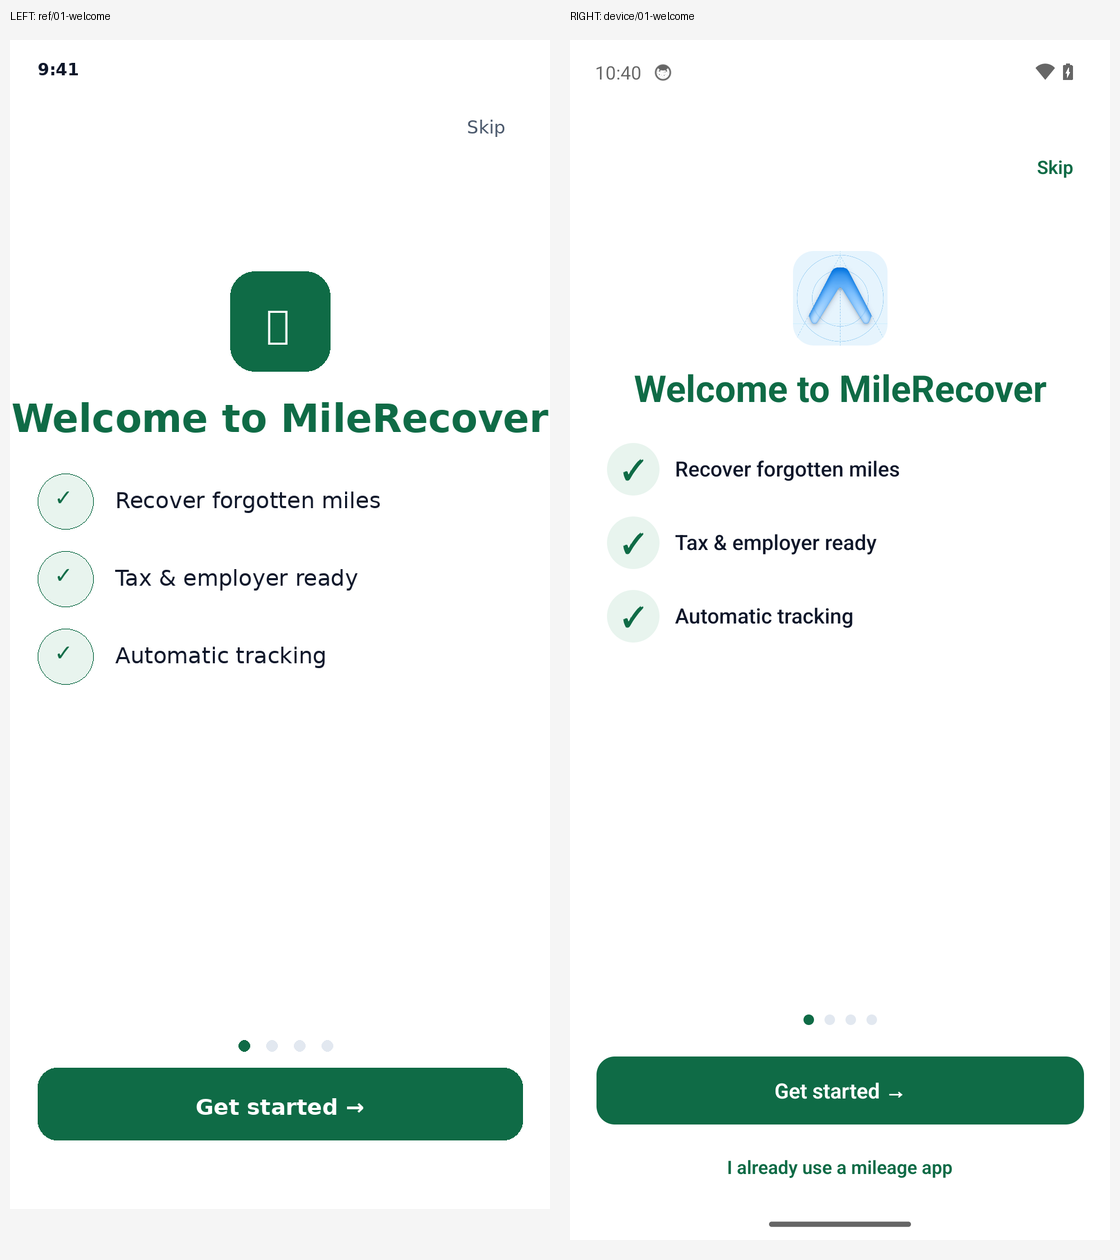
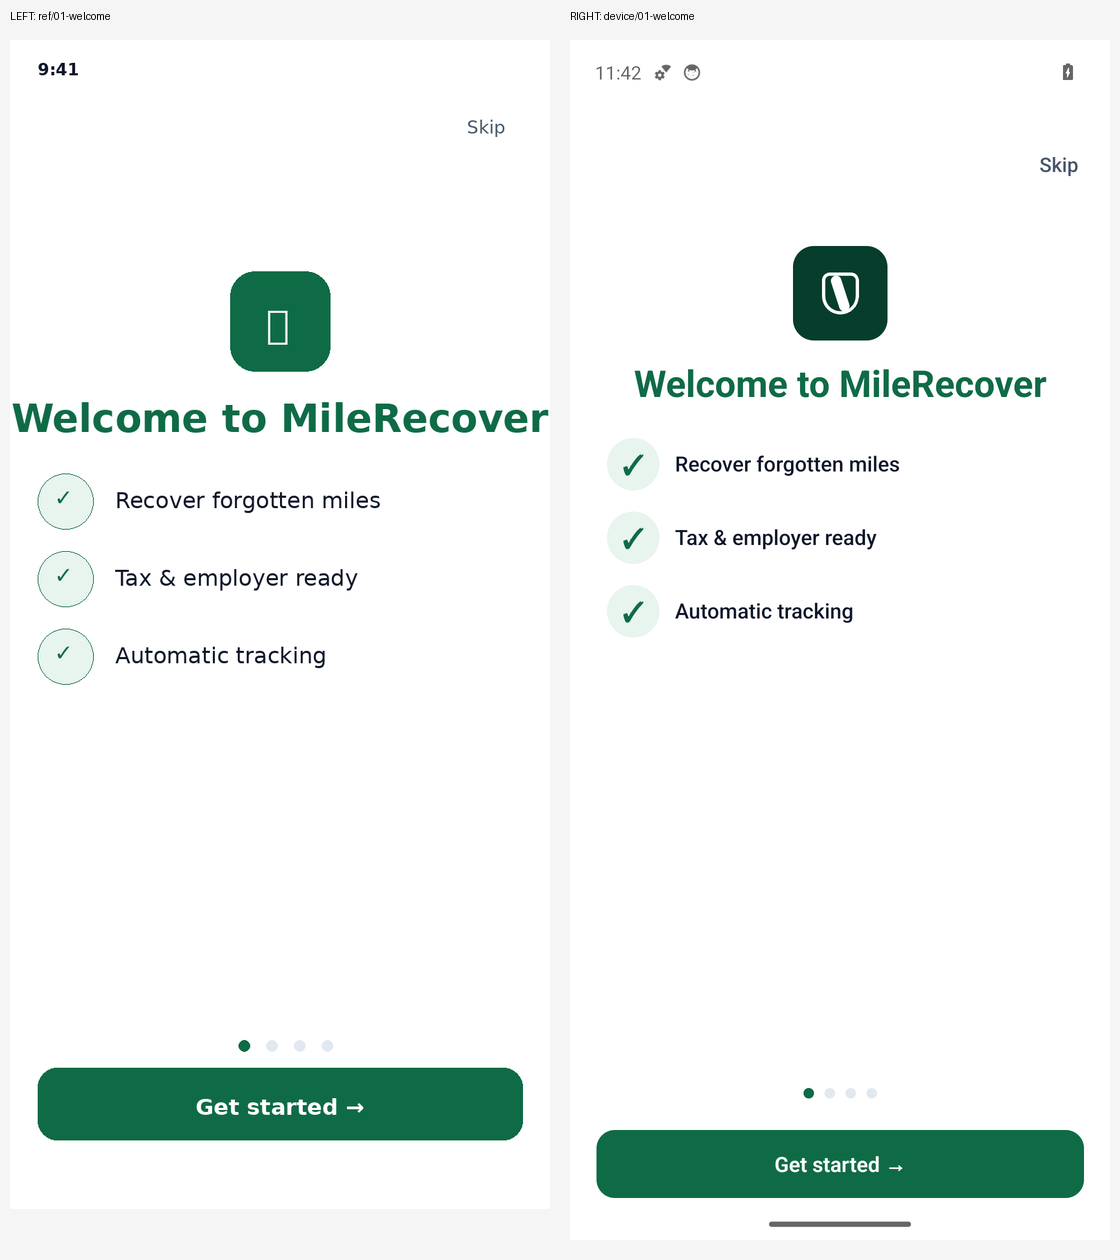
Refresh 0.2.5 device evidence for image-lock.2 APK
Recapture Welcome→Home on Pixel 6 AVD against versionCode 32, regenerate
side-by-sides/diffs, and publish delivery metadata for the installable APK.

diff --git a/docs/assets/ui-evidence/device/0.2.5/MISMATCHES.md b/docs/assets/ui-evidence/device/0.2.5/MISMATCHES.md
@@ -1,37 +1,34 @@
-# Device visual mismatches — 0.2.5 Batch A/B
+# Device visual mismatches — 0.2.5 Batch A/B (image-lock.2)
 
-Evidence from Pixel 6 AVD (`sdk_gphone64_x86_64`, API 34, 1080×2400, TCG).
+Evidence: Pixel 6 AVD (`sdk_gphone64_x86_64`, API 34, 1080×2400, TCG).  
+APK: versionCode **32**, label **0.2.5-image-lock.2**.
 
-## Corrected before rebuild (image-lock.2)
+## Verified on device after rebuild
 
-| Screen | Mismatch | Correction |
-|---|---|---|
-| Welcome | App icon was blue chevron, not green shield mark | `MRWelcomeLogo` draws dark-green rounded mark |
-| Welcome | Extra “I already use a mileage app” link under CTA | Removed from Welcome footer (not in collage) |
-| Welcome | Skip used primary green tertiary weight | Skip uses muted secondary text |
-| Auth–Region | Progress “N of 6” | Progress excludes Welcome → “N of 5” (`8262305` + rebuild) |
-| Home | Greeting fell back to “Welcome back” without name | Time-of-day greeting (`Good morning` / …) |
-| Home | Empty hero used long CTA copy instead of money silhouette | Shows truthful `$0.00` / `this year.` when rate usable |
-| Home | Metric tile put unit inside value (`0.0 mi`) | Numeric value + “Work miles” label |
-| Home | Notification control was ◉ glyph | `notifications-outline` icon |
-| Home | Hero glyph was text check | `shield-checkmark` icon |
-
-## Honest remaining differences (post-correction intent)
-
-| Screen | Remaining |
+| Screen | Verified |
 |---|---|
-| Welcome | Pagination dots imply 4 intro pages; product only has one Welcome step |
-| Auth | No collage tile — layout is protocol-required, not pixel-locked to a crop |
-| Purpose | Selection checkmark / green border only after tap (capture can show unselected) |
-| Region | Info row uses check circle; collage uses “i” info treatment |
-| Protection | Product copy/actions (“Turn on drive protection”) vs collage Protection Center tile (different screen) |
-| Ready | Not a collage tile; success CTA pair differs from marketing panels |
-| Home | Truthful empty state (`$0.00`, `0` drives) vs collage populated sample (`$487.32`, `1,264`) |
-| Home | Status panel attention tone when protection paused (amber) vs collage mint “All systems normal” |
-| Home | Next-up label follows live next-best action, not always “Review 2 drives” |
-| All | Status bar / gesture inset differ from collage chrome |
-| Crops | Working crops are vision-derived geometry locks; original collage binary was not on disk |
+| Welcome | Green brand mark, muted Skip, 3 benefits, dots, Get started → (no extra import link) |
+| Auth | Progress **1 of 5**, Google primary, continue without account, truthful unavailable copy |
+| Purpose | Progress **2 of 5**, four collage goal labels |
+| Region | Progress **3 of 5**, country + $0.70/mi + estimate panel |
+| Protection | Progress **4 of 5**, education + Turn on / Not now |
+| Ready | You’re all set + Go to Home / Add my first drive |
+| Home | Light canvas, greeting, `$0.00` / this year., 3 metric tiles, status, Next up, dual CTAs, 4 tabs |
 
-## Acceptance for this stop condition
+## Honest remaining differences
 
-Batch A + Batch B presentation rebuilt to white canvas + collage hierarchy. Device PNGs under `raw/`, comparisons under `compare/` + `diff/`. Review/Proof and later batches not started.
+| Item | Notes |
+|---|---|
+| Welcome pagination | 4 dots imply multi-page intro; product has one Welcome step |
+| Auth / Ready | No collage tiles — protocol screens only |
+| Region info icon | App uses check circle; collage uses “i” |
+| Protection vs Protection Center | Onboarding education ≠ collage tile 08 |
+| Home empty vs collage sample | Truthful `$0.00` / `0` miles vs collage `$487.32` / `1,264` |
+| Home status tone | Amber “paused” when protection off vs collage mint “All systems normal” |
+| Home Next up | Live next-best (“Turn on protection”) vs collage “Review 2 drives” |
+| Crops provenance | Vision-derived working locks (original collage binary not on disk) |
+| Emulator | TCG-only; ANRs occurred during earlier attempts — final set captured with wifi/data off |
+
+## Out of scope this run
+
+Review · Proof · Add Drive · Missing Drives · Protection Center · Profile · Subscription.

diff --git a/docs/CURRENT_PREVIEW_DELIVERY.md b/docs/CURRENT_PREVIEW_DELIVERY.md
@@ -1,17 +1,37 @@
 # Current preview delivery — 0.2.5 image-lock Batch A+B
 
 **Branch:** `cursor/image-lock-protocol-29cb`  
-**Build label:** `0.2.5-image-lock.2`  
+**APK source commit:** `b474940`  
 **App version / runtime:** `0.2.5`  
+**versionCode:** `32`  
+**Build label:** `0.2.5-image-lock.2`  
 **Channel:** `preview`  
 **Build method:** Local EAS preview APK (`APP_VARIANT=preview`)  
 **Dev launcher:** absent  
 
 ## Direct install
 
-See GitHub release `android-preview-0.2.5` (APK artifact updated for image-lock.2 when published).
+https://github.com/hassanharun2003-dotcom/milerecover-core/releases/download/android-preview-0.2.5/MileRecover-preview-0.2.5.apk
 
-Artifact path (CI/agent): `/opt/cursor/artifacts/apk/MileRecover-preview-0.2.5.apk`
+Latest alias:
+
+https://github.com/hassanharun2003-dotcom/milerecover-core/releases/download/android-preview-0.2.5/MileRecover-preview-latest.apk
+
+Release: https://github.com/hassanharun2003-dotcom/milerecover-core/releases/tag/android-preview-0.2.5
+
+## Artifact checks
+
+| Check | Result |
+|---|---|
[1 lines of base64/hex data omitted]
+| Package | `com.milerecover.app` |
+| versionName | `0.2.5` |
+| versionCode | `32` |
+| runtimeVersion | `0.2.5` |
+| updates.enabled | `true` |
+| channel | `preview` |
+| Launchable | `com.milerecover.app.MainActivity` |
+| DevLauncher in dex | absent |
 
 ## Scope this run
 
@@ -20,16 +40,6 @@ Not started: Review · Proof · Add Drive · Missing Drives · Protection Center
 
 ## Device evidence
 
-`docs/assets/ui-evidence/device/0.2.5/`
+`docs/assets/ui-evidence/device/0.2.5/` — real Android emulator PNGs, side-by-sides, diffs, overlays, `meta.json`, `MISMATCHES.md`.
 
-- `raw/` — actual Android screenshots (Pixel 6 AVD, API 34, 1080×2400)
-- `compare/` — side-by-side reference vs device
-- `diff/` + `overlay/` — difference / blend images
-- `meta.json` — device, viewport, commit, fixture state
-- `MISMATCHES.md` — corrections and honest remaining gaps
-
-## Notes
-
-- Collage marketing panel excluded from crops.
-- Auth and Ready have no collage tiles; captured as protocol screens.
-- Home evidence uses truthful empty production state (no collage sample dollars injected).
+Harness / Storyboard PNGs do **not** count as device proof.
